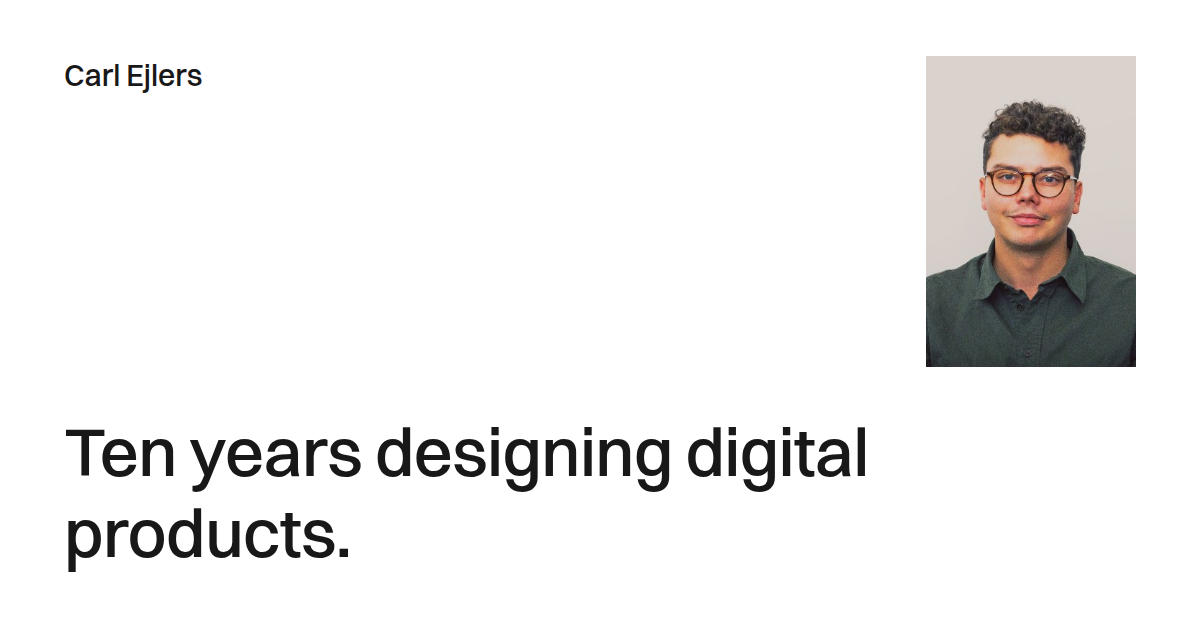
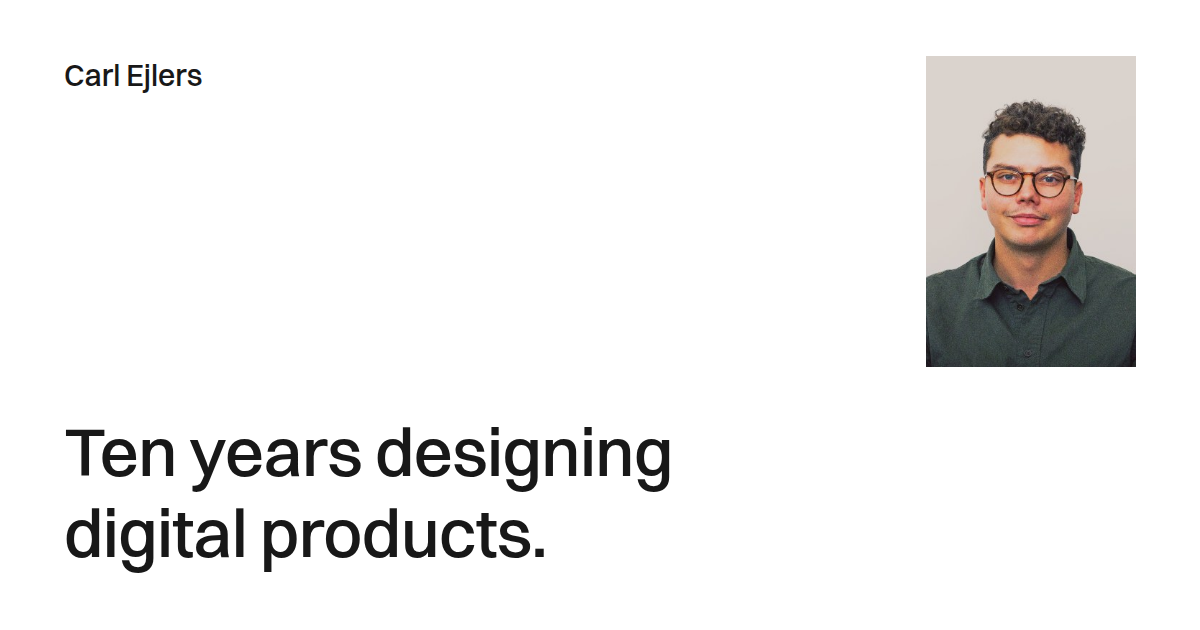
The claim on the card breaks where the sentence does
Ten years designing, then digital products: two lines that each hold
a thought, instead of one word left standing alone at the end.

Claude-Session: https://claude.ai/code/session_01TTN7p9yvs1uBV7gVXB89Yx

Changed region(s): [[0.0308, 0.8143, 0.4625, 0.9048], [0.555, 0.6635, 0.74, 0.7841]]

diff --git a/tools/compose-cards.html b/tools/compose-cards.html
@@ -49,7 +49,7 @@ body { background: #666; font-family: "Switzer", system-ui, sans-serif; -webkit-
 <div class="card card--site" id="site">
 	<p class="trail">Carl Ejlers</p>
 	<img class="portrait" src="../img/carl.jpg" alt="">
-	<p class="claim">Ten years designing digital products.</p>
+	<p class="claim">Ten years designing<br>digital products.</p>
 </div>
 
 <template id="case-template"></template>
